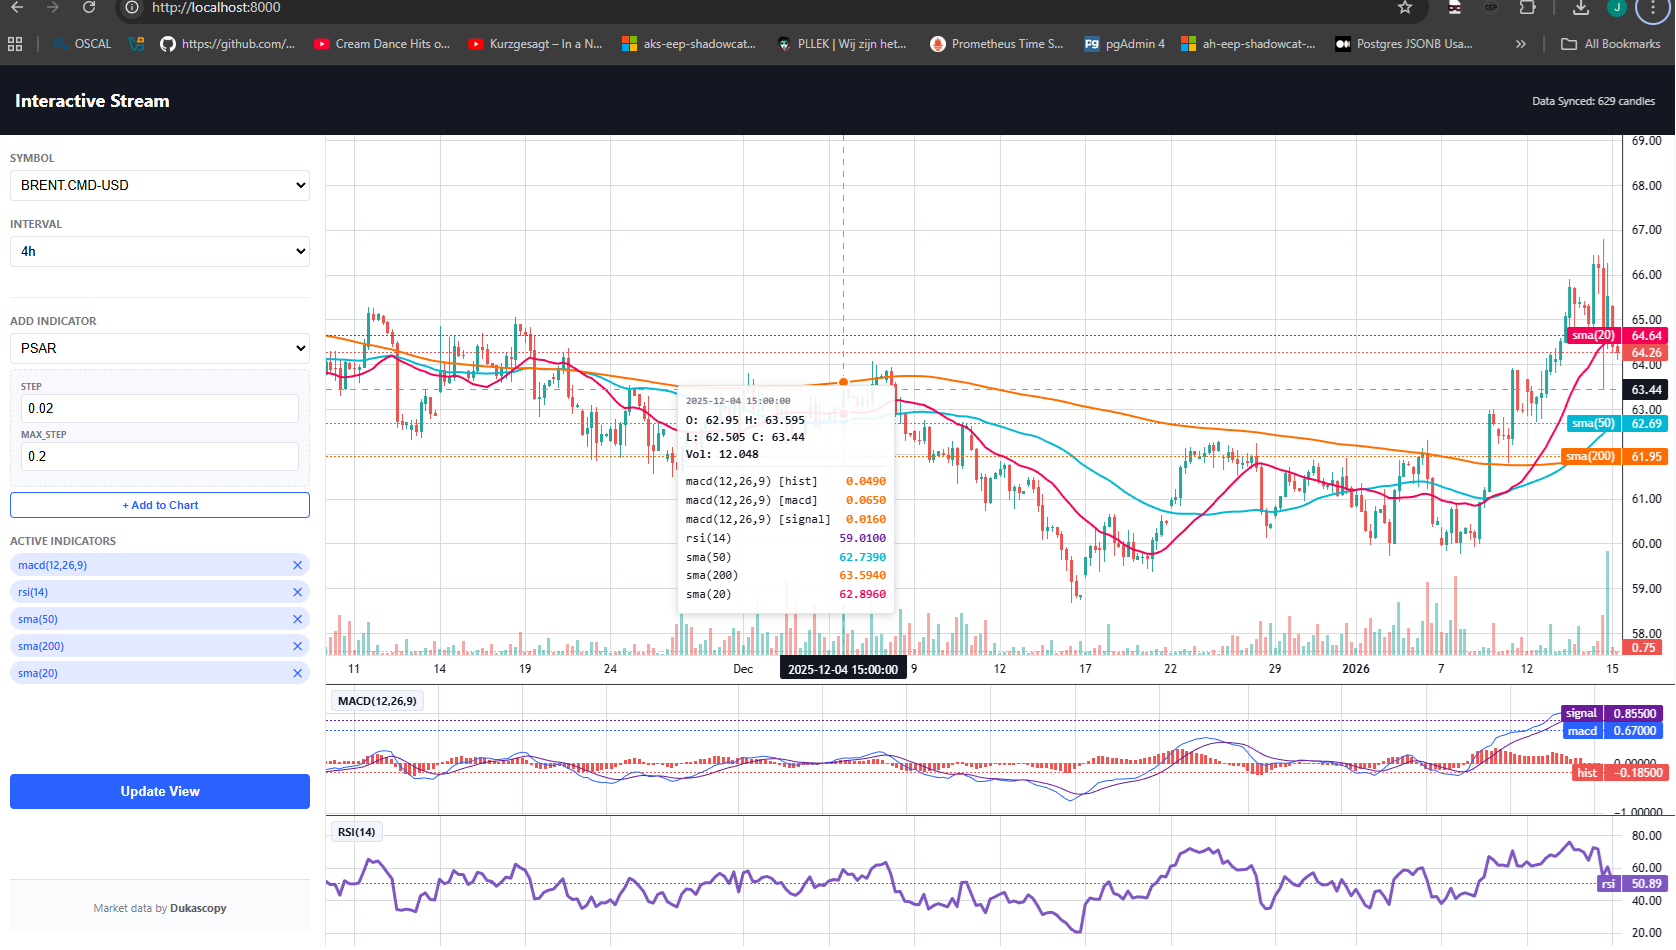
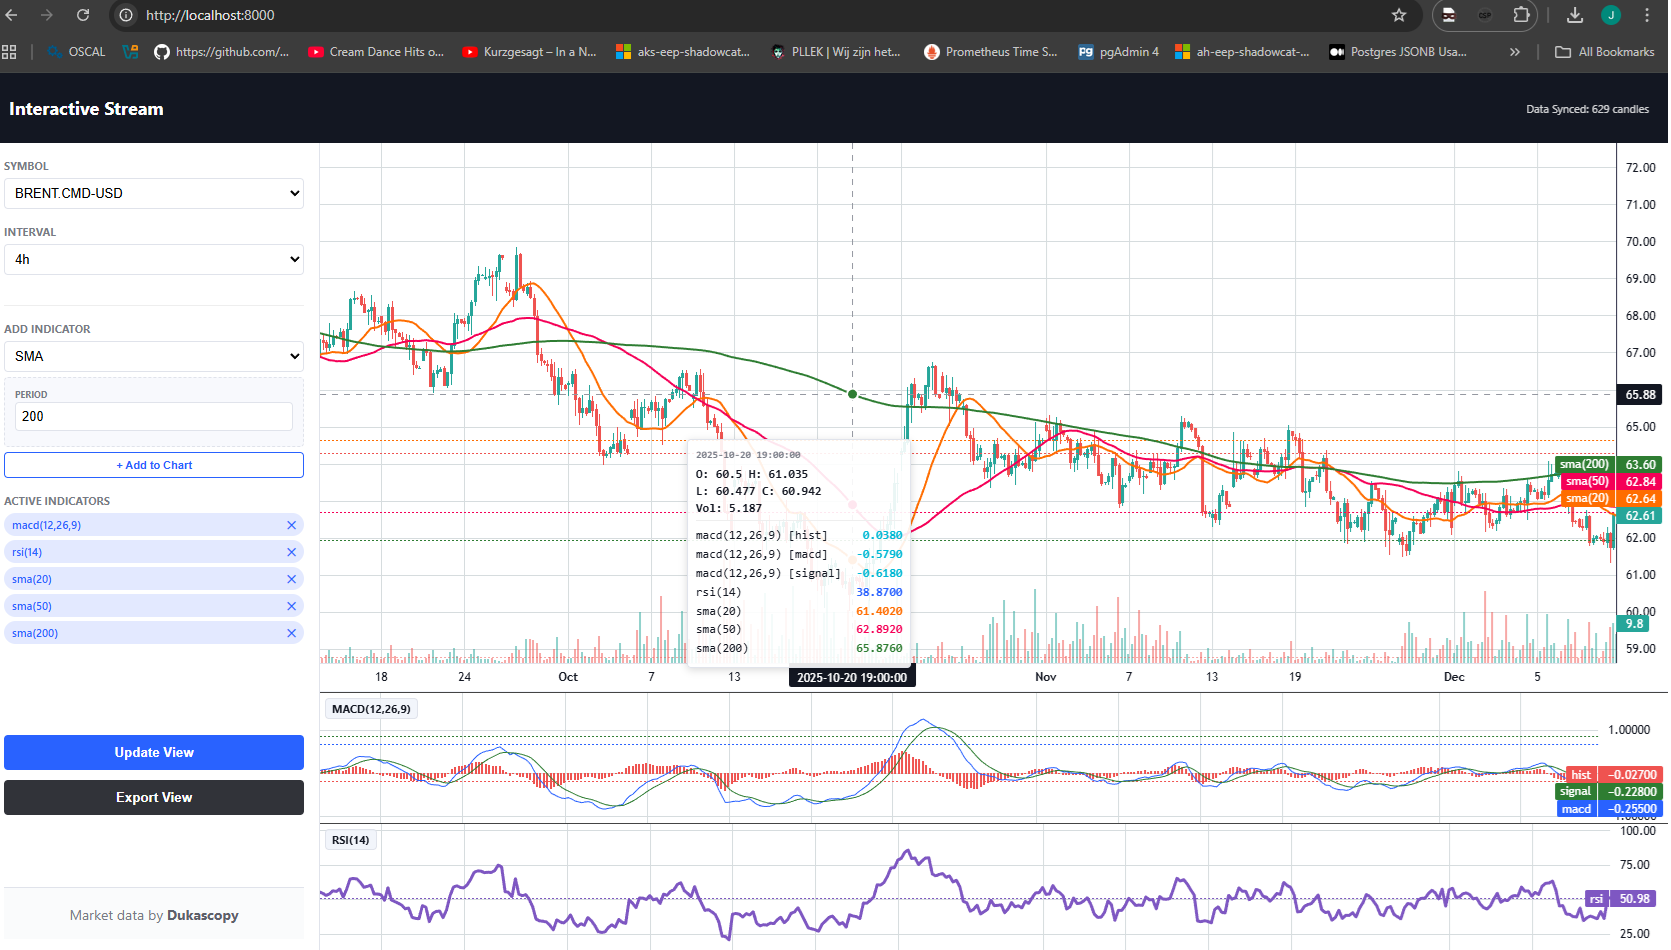
docs(notices): added export button terminal2.png and updated notices

diff --git a/dukascopy/docs/notices.md b/dukascopy/docs/notices.md
@@ -45,7 +45,7 @@ New Interactive chart-new index.html:
 
 You can use this version to play around with custom indicators. The indicator.html is already dynamic. So if you build one, it's immediately usable in `indicator.html`. So you can immediately export outputs. You can find example plugins in `api/plugins/indicators`, [more info](https://github.com/jpueberbach4/bp.markets.ingest/blob/beta/0.6.6/dukascopy/docs/indicators.md).
 
-**Note:** I will add an export button to the interactive chart. Eg when you have added your indicators, visualized them and are happy with the result -> export data with current indicator settings. Today or tomorrow. I will update the beta/0.6.6. Follow these notices closely if waiting for/wanting this.
+**Note:** There is also an export button. So you can visualize your chart first and when you are happy, export indicator-integrated data to CSV with a maximum of 40000 records (it allows you to specify the after date when you click export).
 
 Enjoy!
 
